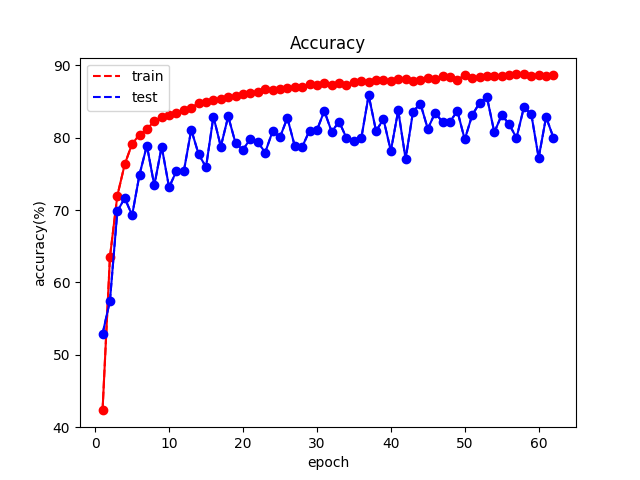
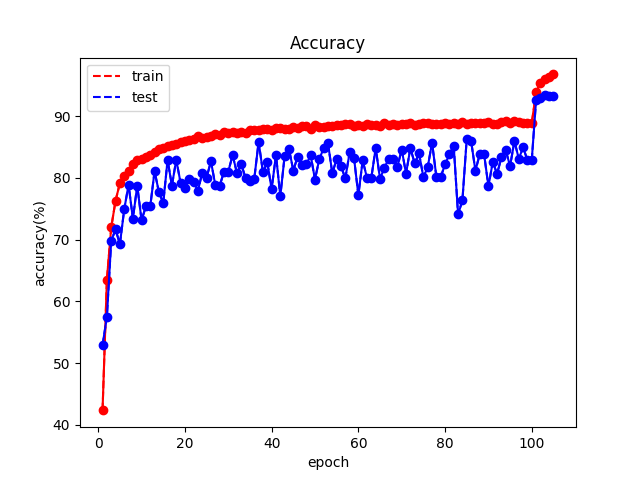
add densenet experiment

diff --git a/main.py b/main.py
@@ -14,6 +14,7 @@ parser.add_argument('--lr', default=0.1, type=float, help='learning rate')
 parser.add_argument('--resume', '-r', action='store_true', help='resume from checkpoint')
 parser.add_argument('--num_epoch', default=150, type=int, help='Number of training epochs')
 parser.add_argument('--save_flag', required=True, type=str, help='The flag appended to ckpt name')
+
 args = parser.parse_args()
 
 project_dir = os.path.dirname(os.path.abspath(__file__))
@@ -50,8 +51,11 @@ if device == 'cuda':
     net = torch.nn.DataParallel(net)  # , device_ids=[0, 1])  # 多GPU计算
     cudnn.benchmark = True
 
-ckpt_name = project_dir + '/checkpoint/ckpt_' + args.save_flag + '.pth'
-metric_name = project_dir + '/metric/metric_' + args.save_flag + '.json'
+optim_flag = 'sgd'
+ckpt_name = project_dir + '/checkpoint/ckpt_' + args.save_flag + '_' + optim_flag + '.pth'
+metric_name = project_dir + '/metric/metric_' + args.save_flag + '_' + optim_flag + '.json'
+# ckpt_name = project_dir + '/checkpoint/ckpt_' + args.save_flag + '.pth'
+# metric_name = project_dir + '/metric/metric_' + args.save_flag + '.json'
 if args.resume:
     # Load checkpoint.
     net, best_acc, start_epoch = resume_ckpt(net, ckpt_name)

diff --git a/models/densenet.py b/models/densenet.py
@@ -65,7 +65,7 @@ class _DenseBlock(nn.Module):
                 bn_size=bn_size,
                 drop_rate=drop_rate,
                 efficient=efficient,
-                )
+            )
             self.add_module('denselayer%d' % (i + 1), layer)
 
     def forward(self, init_features):
@@ -165,12 +165,8 @@ class DenseNet(nn.Module):
 def test():
     net = DenseNet()
     x = torch.randn(1, 3, 32, 32)
-
-    for name, layer in net.named_children():
-        if name == "features":
-            for n, l in layer.named_children():
-                x = l(x)
-                print(n, ": ", x.size())
+    y = net(x)
+    print(net)
 
 
-# test()
+test()
